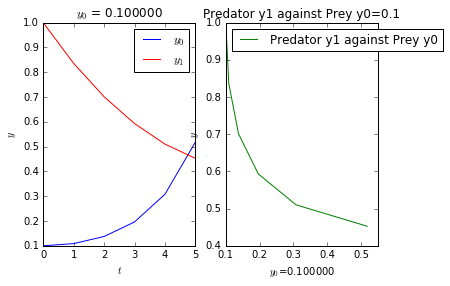
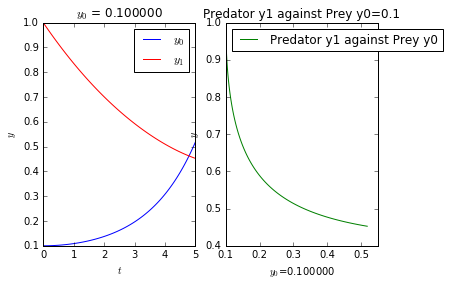
Update

diff --git a/task2.py b/task2.py
@@ -13,14 +13,13 @@ def my_ode(y, t, a, b):
 
 # initialize variables
 end_year = 5
-count_of_years = end_year + 1
 y0_initial = 0.1
 y1_initial = 1.0
 a = 1
 b = 0.2
 
 # initialize arguments
-t = np.linspace(0, end_year, count_of_years)
+t = np.linspace(0, end_year, 100)
 y0_vector = np.array([y0_initial, y1_initial])
 
 # solve ode and obtain array of values

diff --git a/task1.py b/task1.py
@@ -14,7 +14,7 @@ def gausslegendre(f, a, b, n=20):
     for i in range(n):
        y=((b-a)/2)*Sn[i]+((a+b)/2)
        wf+=W[i]*f(y)
-    ans=((b-a)/2)+wf
+    ans=((b-a)/2)*wf
     return ans
 
 
